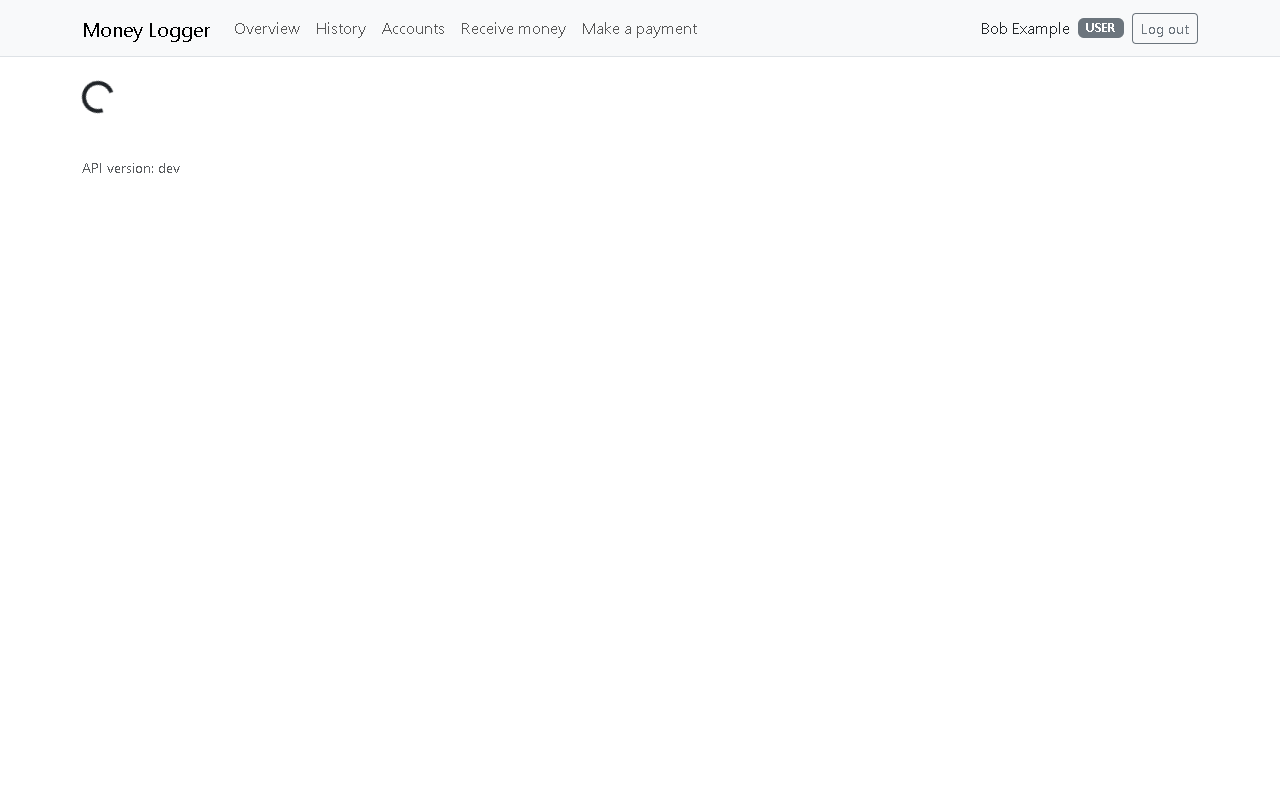
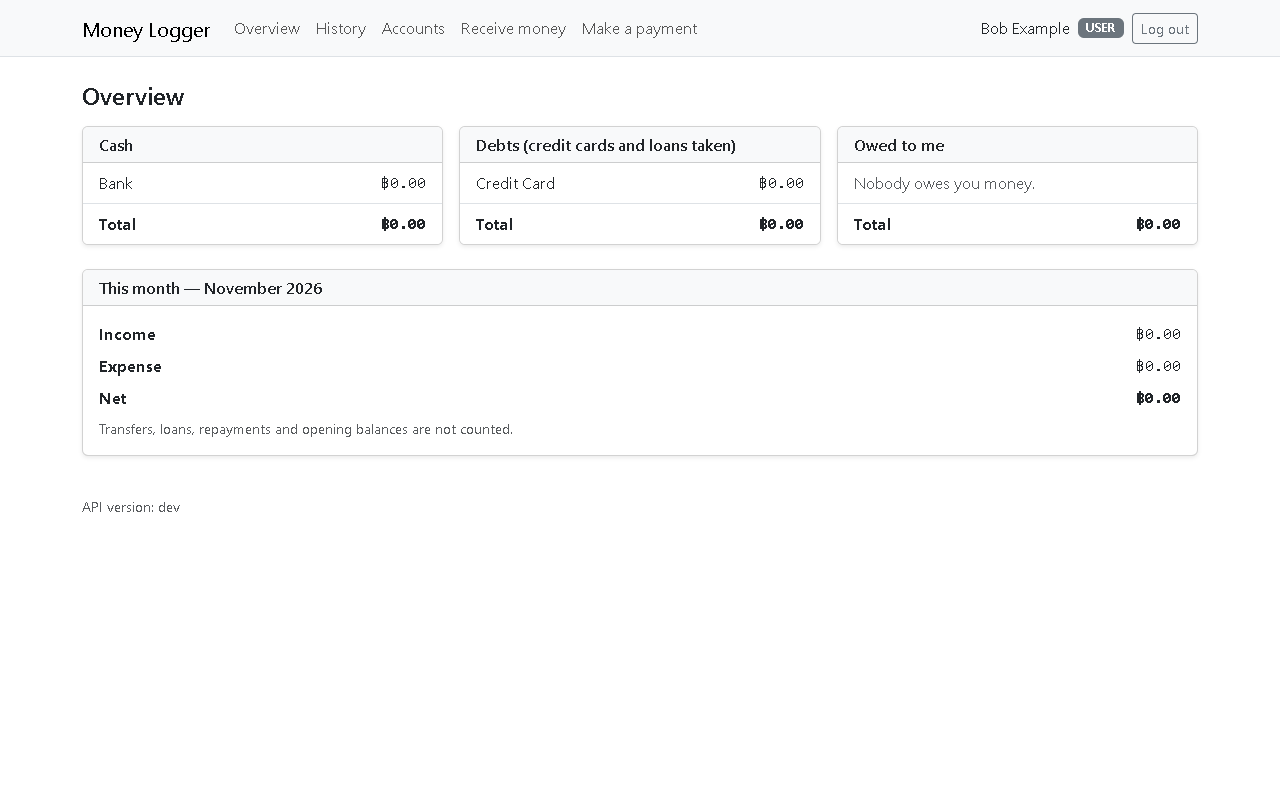
docs(D1): retake Figure F-1 after the overview has loaded
The first capture was taken while the page still showed its loading spinner, so the empty totals the caption describes were not visible.

diff --git a/submission/d1/part-f.md b/submission/d1/part-f.md
@@ -63,7 +63,7 @@ Local setup: PostgreSQL 16 on port 5434 (docker-compose `money-logger-postgres`)
 
 #### Screenshots (user `bob`)
 
-Screenshots were captured on 2026-11-14 from the running app (local dev servers, PostgreSQL 16 in Docker, database reset and seeded by `e2e/global-setup.ts`). The application code is identical to tag `v0.1.0-sprint1` (`git diff v0.1.0-sprint1` touches only docs and `.gitignore`); the footer shows `API version: dev` because `APP_VERSION` is set only in the Docker build. No request was mocked.
+Screenshots were captured on 2026-11-14 (Figure F-1 retaken on 2026-11-15) from the running app (local dev servers, PostgreSQL 16 in Docker, database reset and seeded by `e2e/global-setup.ts`). The application code is identical to tag `v0.1.0-sprint1` (`git diff v0.1.0-sprint1` touches only docs and `.gitignore`); the footer shows `API version: dev` because `APP_VERSION` is set only in the Docker build. No request was mocked.
 
 ![Figure F-1. Overview after first login: all totals ฿0.00 (starting condition).](img/f1-01-overview-empty.png)
 *Figure F-1. Overview after first login: all totals ฿0.00 (starting condition).*
